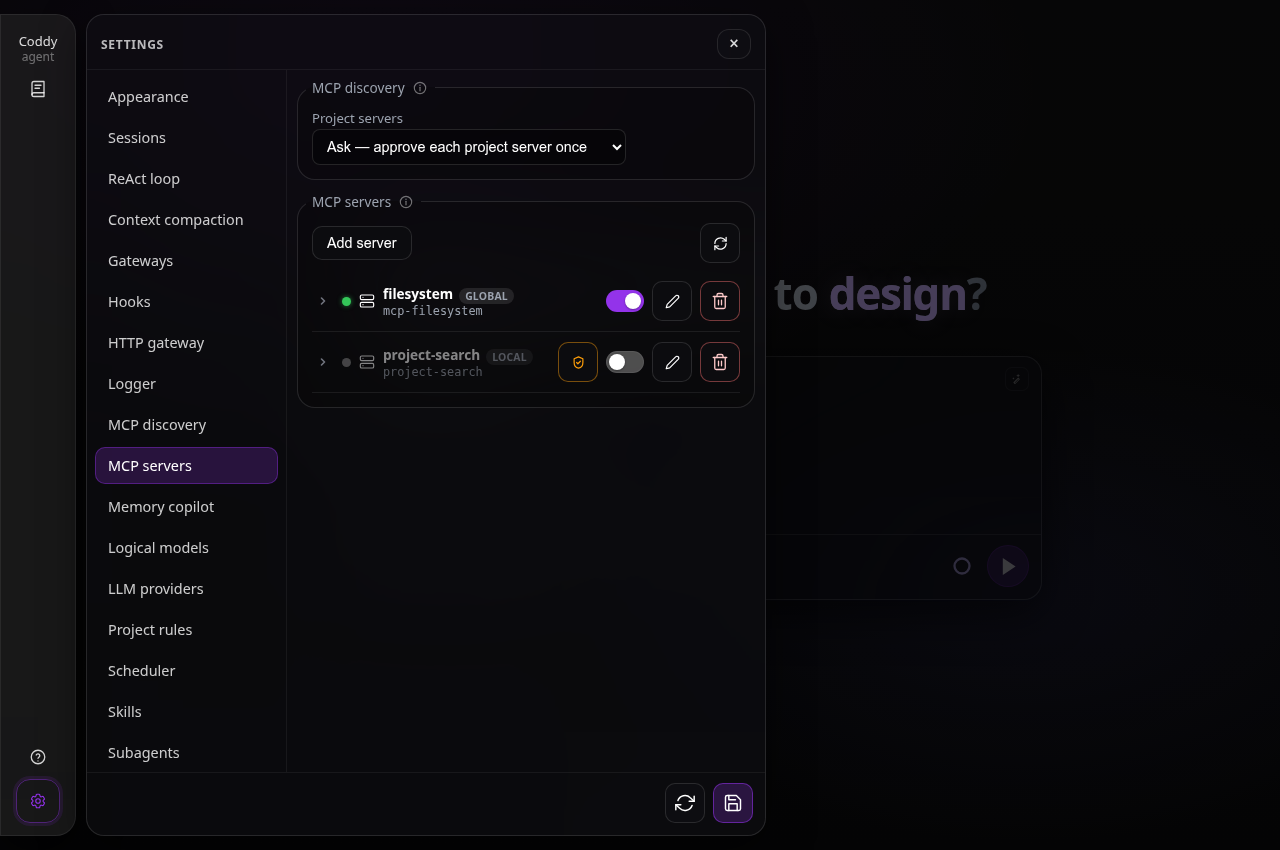
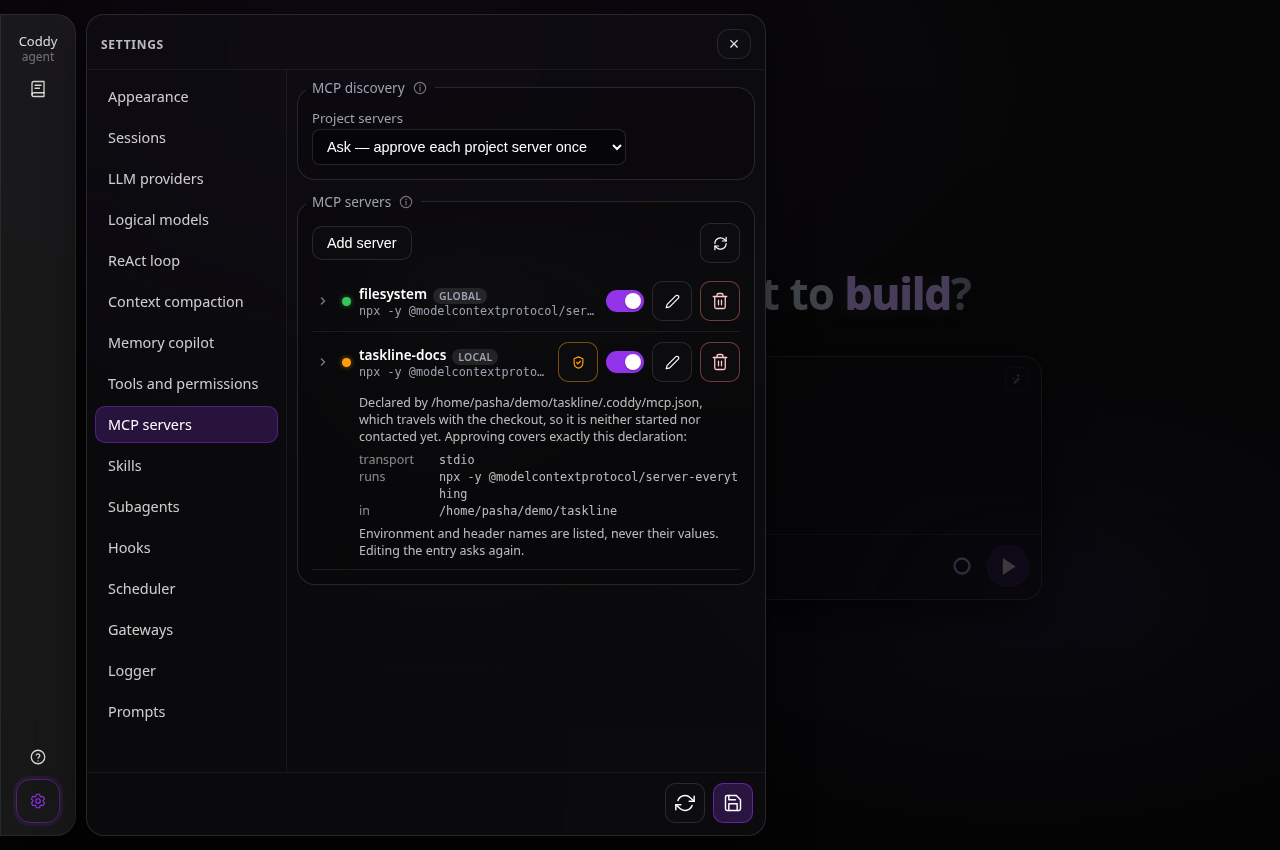
docs(mcp): one-server switches, trust by fingerprint, stored sessions
mcp.md, http-api.md, console.md, web-ui.md and slash-commands.md say what
the review changed: a switch connects or closes only its own server in
live sessions and a tool switch reconnects nothing; an approval names the
declaration shown and is refused with 409 when the checkout rewrote it;
the console offers trust only under ask and prints the whole declaration;
a broken overrides file keeps project servers off; a stored session
starts its MCP servers for its first turn; /mcp takes words after it in
the web composer and is answered in a Telegram group without a mention.
gateway.md names the two refusals the fake Bot API gained. The MCP
settings screenshots are taken again from this build: rows without the
server glyph, and MCP discovery as a block of the MCP servers tab rather
than a section of its own, as the tab has shown it for a while.

diff --git a/docs/reference/http-api.md b/docs/reference/http-api.md
@@ -200,12 +200,12 @@ header where the client can set one, since a query token reaches proxy access lo
 | DELETE | **`/coddy/skills/sources?source=<src>`** | Removes **`source`** (matched case-insensitively) from **`skills.sources`** in **config.yaml** and reloads config. Installed skills remain. **`200`** **`{"ok":true,"removed":bool}`**; **`400`** when the **`source`** query parameter is missing. A **`system`** source is refused with **`400`**: it is built into Coddy and is not in the file. |
 | DELETE | **`/coddy/skills/{name}`** | Deletes any on-disk skill by name (its directory, plus its remote provenance entry when synced). Bundled (read-only) skills, and skills outside the configured skill directories, return **`400`**. **`200`** **`{"ok":true}`**. Invalidates the slash-command cache. |
 | GET | **`/coddy/mcp`** | Merged MCP server list from three levels: **`mcp_servers`** in **config.yaml** and the user-global **`<home>/mcp.json`** (both scope **`global`**), plus the project-local **`.coddy/mcp.json`** (scope **`local`**); mcp.json files are Cursor-compatible and later levels override earlier ones by name. JSON **`{"object":"coddy.mcp_list","workspace":"...","project_trust":"ask","items":[...]}`**; each item has **`name`**, **`source`** (**`global`** / **`local`**), **`origin`** (**`config`** / **`home`** / **`project`** — the owning file), **`readonly`** (**`true`** for config.yaml entries), **`transport`**, **`command`**, **`args`**, **`url`**, **`env`**, **`headers`**, **`source_path`**, **`enabled`**, **`status`** (**`connected`** / **`error`** / **`disabled`** / **`unsupported`** / **`needs_approval`** / **`denied`**), **`error`**, **`trusted`**, **`gated`**, **`fingerprint`**, **`tools`** (**`[{name, description, enabled}]`**), **`disabled_tools`**. Enabled servers are probed for tools over their transport (**`stdio`** spawn, **`http`** streamable with legacy-SSE fallback, **`sse`**; connect, **`tools/list`**, close) with results cached until the definition changes; **`?refresh=1`** re-probes. Unknown transport types report **`unsupported`** without probing. A project-local entry that the workspace trust gate holds back is **never probed**: it reports **`needs_approval`** (or **`denied`**) with **`trusted:false`**, no tools, and the declaration an approval would cover. |
-| POST | **`/coddy/mcp/{name}/enable`** | Clears the server's disabled flag. Global entries persist in their defining file; project entries persist in **`<home>/mcp-overrides.json`**, leaving the checkout unchanged. **`200`** **`{"ok":true}`**; **`400`** for an unknown server. Live sessions refresh their MCP clients; an active turn adopts the change when it ends. |
-| POST | **`/coddy/mcp/{name}/disable`** | Sets the server's disabled flag under the same scope rule as **`enable`**. New sessions skip connecting the server; live sessions stop seeing its tools on the next turn. |
-| POST | **`/coddy/mcp/{name}/tools/{tool}/enable`** | Enables **`{tool}`** in the server's effective tool list. Global switches persist in YAML or the global mcp.json; project switches persist in **`<home>/mcp-overrides.json`**. **`200`** **`{"ok":true}`**; **`400`** for an unknown server. |
+| POST | **`/coddy/mcp/{name}/enable`** | Clears the server's disabled flag. Global entries persist in their defining file; project entries persist in **`<home>/mcp-overrides.json`**, leaving the checkout unchanged. **`200`** **`{"ok":true}`**; **`400`** for an unknown server. Live sessions connect the server where the trust gate admits it, and keep their other servers running; a session in the middle of a turn connects it when the turn ends. |
+| POST | **`/coddy/mcp/{name}/disable`** | Sets the server's disabled flag under the same scope rule as **`enable`**. New sessions skip connecting the server; live sessions close it and keep their other servers running (a turn in flight keeps it until it ends). |
+| POST | **`/coddy/mcp/{name}/tools/{tool}/enable`** | Enables **`{tool}`** in the server's effective tool list. Global switches persist in YAML or the global mcp.json; project switches persist in **`<home>/mcp-overrides.json`**. **`200`** **`{"ok":true}`**; **`400`** for an unknown server. Nothing reconnects: live sessions offer the tool again on their next turn. |
 | POST | **`/coddy/mcp/{name}/tools/{tool}/disable`** | Disables **`{tool}`** under the same scope rule. The tool is hidden from the agent's tool list and rejected at dispatch. Same responses as the tool **`enable`**. |
-| POST | **`/coddy/mcp/{name}/trust`** | Approves the **current** declaration of a project-local server for the server's workspace, so sessions may start it. The approval is bound to the workspace and to a digest of the command-bearing declaration (transport, command, args, env, url, headers) and is recorded in **`<home>/mcp-trust.json`** with a receipt (env and header **names** only). **`200`** **`{"ok":true,"fingerprint":"sha256:…"}`**; **`400`** for an unknown server, for a **config.yaml** / **`<home>/mcp.json`** entry (those need no approval), or under **`mcp.project_trust: deny`**. Rewriting the entry withdraws the approval. |
-| POST | **`/coddy/mcp/{name}/untrust`** | Withdraws the workspace approval. **`200`** **`{"ok":true,"removed":<bool>}`**. Live sessions refresh their configured MCP clients; a turn already in progress keeps its client until it ends. |
+| POST | **`/coddy/mcp/{name}/trust`** | Approves the declaration of a project-local server for the server's workspace, so sessions may start it, and connects it in live sessions. Optional body **`{"fingerprint":"sha256:…"}`** names the declaration the operator was shown, by the **`fingerprint`** of **`GET /coddy/mcp`**: when the checkout rewrote the entry since, the answer is **`409`** and nothing is recorded; without a body the current declaration is approved. The approval is bound to the workspace and to a digest of the command-bearing declaration (transport, command, args, env, url, headers) and is recorded in **`<home>/mcp-trust.json`** with a receipt (env and header **names** only). **`200`** **`{"ok":true,"fingerprint":"sha256:…"}`**; **`400`** for an unknown server, for a **config.yaml** / **`<home>/mcp.json`** entry (those need no approval), or under **`mcp.project_trust: deny`**. Rewriting the entry withdraws the approval. |
+| POST | **`/coddy/mcp/{name}/untrust`** | Withdraws the workspace approval. **`200`** **`{"ok":true,"removed":<bool>}`**. Live sessions close the server and keep their other servers running; a turn already in progress keeps it until it ends. |
 | POST | **`/coddy/mcp/project-trust`** | Sets **`mcp.project_trust`** in **config.yaml** and reloads it. Body **`{"policy":"ask"\|"allow"\|"deny"}`**. **`200`** **`{"ok":true,"project_trust":"…"}`**; **`400`** for an unknown value. The bundled UI edits this in the MCP servers tab, next to the servers it governs. |
 | GET | **`/coddy/subagents`** | Subagent definitions visible from a workspace (**`?cwd=<absolute path>`**, default: the server's default cwd; a relative path is **`400`**): the embedded built-ins (**`general`**, **`explore`**), user-scope files under **`${CODDY_HOME}/agents`**, and project-scope files under the workspace's **`.claude/agents`** and **`.coddy/agents`** (**`subagents.dirs`**, later directories win by name). **`{"object":"coddy.subagent_list","workspace","policy","items":[...]}`** where **`workspace`** is the canonical path receipts are keyed by, **`policy`** the effective **`subagents.project_trust`**, and each item carries **`name`**, **`description`**, **`scope`** (**`builtin`**, **`user`**, **`project`**), **`path`**, **`digest`** (SHA-256 of the definition bytes, the embedded bytes for built-ins), **`model`**, **`mode`**, **`builtin`**, **`hidden`**, the bounds the definition declares - **`tools`**, **`disallowed_tools`**, **`permission_mode`**, **`timeout_seconds`**, **`max_turns`**, **`background`**, and **`role_bytes`** (the size of the role body; the body itself is never served, since a client would render it before anyone approved the file) - and the trust decision for that workspace: **`trust`** (**`trusted`** or **`needs_approval`**) mirrored as the booleans **`trusted`** and **`needs_approval`**. A bound a definition does not declare is absent rather than empty: absent means "inherits". Under **`deny`** project directories are not read at all. Errors on this route and on the trust routes are **`{"error":{"message"}}`** typed **`application/json`**. The bundled UI lists this catalog, read-only, under **Settings → Subagents**. See **`docs/features/subagents.md`**. |
 | POST | **`/coddy/subagents/{name}/trust`** | Approves the **current** content of a project-scope definition for a workspace: records a receipt in **`<home>/subagents-trust.json`** bound to the canonical workspace, the name and the file digest, so **`spawn_agent`** may run it under **`project_trust: ask`**. Rewriting the file withdraws the approval. Optional body **`{"cwd": ...}`** (default: the server's default cwd); **`cwd`** must be the session's **server-side** workspace, the `cwd` field of the **`GET /coddy/sessions`** rows or **`GET /coddy/workspace/context`** with the session header, since receipts are keyed by that path. This route is the approval path for a remote console or ACP client, whose local `coddy agents trust` writes a receipt on the wrong machine. **`200`** **`{"object":"coddy.subagent","item":<catalog entry>}`** with the refreshed entry; **`404`** when no definition of that name is visible from the workspace; **`400`** for a built-in or user-scope definition (nothing to approve), a malformed body, or a relative **`cwd`**. |

diff --git a/docs/features/mcp.md b/docs/features/mcp.md
@@ -132,12 +132,22 @@ removing their definitions:
   `"disabledTools": ["tool_a"]` per entry when editing the declarations directly
 - For project entries, switches made through `/mcp` or Settings are stored in
   `<home>/mcp-overrides.json`, keyed by workspace and server. The checkout's
-  `.coddy/mcp.json` stays unchanged; these switches override its defaults.
+  `.coddy/mcp.json` stays unchanged; these switches override its defaults. Deleting a
+  project server through the API or the UI drops its switches, so a later server of the
+  same name starts from its own declaration. While the file cannot be read, every project
+  server stays off and the global servers keep their own switches.
 
 Disabled servers are not connected for new sessions. Disabled tools (and all tools of a
 disabled server) are hidden from the LLM's tool list and rejected at dispatch. The switches
 are re-read on every agent turn, so toggling them (by editing the files or through the
 HTTP API / web UI below) also applies to **already running** sessions on their next turn.
+
+A switch made through `/mcp`, Settings or the HTTP API also reaches live sessions at once,
+one server at a time: switching a server on connects it in every live session the trust
+gate admits it for, switching it off closes it there, and the other servers keep their
+processes, so a browser-automation server keeps its pages open. A tool switch reconnects
+nothing. A session with a turn in flight keeps its tools until the turn ends and takes the
+switch then.
 
 ## Management API and UI
 
@@ -150,15 +160,28 @@ Cursor-style JSON editor for mcp.json entries with a scope picker (global writes
 into their defining file; project switches persist in the operator's home.
 `config.yaml` entries are toggle-only here and edited in Settings.
 
-Type `/mcp` in the web composer to open this Settings section. In the console,
-`/mcp` opens a list of global and project servers with connection status and
-tool counts. Enter opens a server's controls: toggle the server, expand its
-tools and toggle one, or grant/revoke trust for a project declaration. The
-console shows the command or URL again before recording trust. These controls
-also work in `--remote` mode through the server's MCP management routes.
-Telegram `/mcp` lists servers and offers enable/disable buttons only for
-already-trusted entries. Approve project declarations in the console, CLI or
-web UI; a chat cannot grant workspace trust.
+Type `/mcp` in the web composer to open this Settings section; words after the
+command are ignored, as in the console. In the console, `/mcp` opens a list of
+global and project servers with connection status and tool counts, and `off`
+beside a switched-off server whose status is a trust verdict. Enter opens a
+server's controls: toggle the server, expand its tools and toggle one, or
+grant or revoke trust for a project declaration. The trust control follows the
+rule of the web shield and is offered only under `mcp.project_trust: ask`, since
+under `allow` and `deny` there is no per-server decision to take. Before it
+records trust the console prints the whole declaration above the choice: the
+transport, the command line or the URL, the names of its variables and headers,
+the workspace and the file. These controls also work in `--remote` mode through
+the server's MCP management routes. Telegram `/mcp` lists servers and offers
+enable/disable buttons only for already-trusted entries; in a group it is
+answered without a mention, and a failed tap is reported in the menu message.
+Approve project declarations in the console, CLI or web UI; a chat cannot grant
+workspace trust.
+
+An approval from the console, the web shield or the remote console names the
+declaration it was shown by the `fingerprint` the list reported. When the
+checkout rewrote the entry between the listing and the approval, the approval is
+refused (`409` over HTTP) and nothing is recorded: list the servers again and
+review the new declaration.
 
 ![The MCP settings section opened from the web composer's /mcp command](../assets/mcp/mcp-settings-dark-1280.png)
 
@@ -325,7 +348,12 @@ mcp_servers:
 
 1. On `session/new`, the agent connects every enabled server from the merged
    config.yaml + `~/.coddy/mcp.json` + `./.coddy/mcp.json` list that the workspace
-   trust gate admits, then any ACP client-supplied servers
+   trust gate admits, then any ACP client-supplied servers. A session restored from
+   disk - reopened by an editor with `session/load`, or read by the web UI, a chat
+   or the console - connects its configured servers before its first turn instead,
+   through the same gate: reading a stored conversation starts no process, where it
+   used to start a set per session that stayed for the life of the server. Its ACP
+   client-supplied servers still connect on load
 2. The agent calls `tools/list` on each server and registers the tools
 3. The staged config tools can add, replace, or delete a global `mcp_servers`
    entry while the session is running: `config_set` stages the uci-like command

diff --git a/docs/surfaces/web-ui.md b/docs/surfaces/web-ui.md
@@ -616,7 +616,7 @@ Wire and draft
 Picker and segmentation
 
 - The **Commands** group lists the built-ins from **`GET /coddy/commands`** with their argument hint (**`.slash-row-hint`**). Picking **`/model`**, **`/reasoning`** or **`/permissions`** opens that composer selector instead of inserting text, and picking **`/agent`**, **`/plan`** or **`/ask`** switches the mode; a settings command typed out with its value is sent as prompt text and applied by the server.
-- Typing **`/mcp`** in the composer opens **Settings → MCP servers** without sending a turn. The command appears beside `/docs` in the local Commands group; it works from the home composer and from a session.
+- Typing **`/mcp`** in the composer opens **Settings → MCP servers** without sending a turn; words after the command are ignored, as in the console, while a word that only starts with it (`/mcpx`) is an ordinary prompt. The command appears beside `/docs` in the local Commands group; it works from the home composer and from a session.
 - Menu visibility and **`prefix`** derive from **`slashMenuDraftAtCaret`** in **`external/ui/src/ui/skills/draftSlash.ts`** (line-start or whitespace before **`/`**, optional suffix, not inside fences or blockquotes).
 - Mirror highlighting uses **`segmentComposerSlashSpans`** in **`external/ui/src/ui/skills/segmentComposerSlashSpans.ts`** (mid-line **`/`** supported; **`x/foo`** is not a command token).
 
@@ -1119,6 +1119,10 @@ a project-local one awaiting workspace approval):
   error), disabled (gray), unknown transport type (amber, `unsupported`),
   awaiting workspace approval (amber, `needs_approval`), refused by
   `mcp.project_trust: deny` (red, `denied`).
+- A row leads with its chevron and the status dot, with no glyph of its own, and
+  the expanded tools and the trust note start where the name does. On a phone
+  the controls wrap under the name and its command line, so a name is read whole
+  instead of a few letters beside four 40px buttons.
 - The tab holds **two fieldsets**: **MCP discovery** (`.mcp-discovery-box`) above
   **MCP servers** (`.mcp-servers-box`). Discovery carries the `mcp.project_trust`
   policy (`mcp-project-trust` select, `POST /coddy/mcp/project-trust`) and the
@@ -1126,7 +1130,9 @@ a project-local one awaiting workspace approval):
   its own, because it governs exactly the servers listed under it, and like the
   rest of the tab it persists on change instead of joining Save all.
 - Workspace trust for project-local rows (`gated: true`): a shield button
-  (`mcp-trust-{name}`) posts `POST /coddy/mcp/{name}/trust|untrust`, and a
+  (`mcp-trust-{name}`) posts `POST /coddy/mcp/{name}/trust|untrust`, an approval
+  carrying the row's `fingerprint` so a declaration the checkout rewrote since the
+  listing is refused (`409`, shown as the tab's error) instead of approved, and a
   `needs_approval` row carries a note (`mcp-trust-note-{name}`) with the
   `source_path` it was declared in plus the declaration the approval covers
   (`.mcp-trust-facts`, from `declarationFacts` in `mcpServerJson.ts`):
@@ -1137,8 +1143,10 @@ a project-local one awaiting workspace approval):
   no per-server decision left to offer. Such a row is not probed, so it lists no
   tools; the command line stays visible because it is what the operator
   approves. The shield is absent for `global` rows and disabled under `denied`.
-- Server switch toggles `POST /coddy/mcp/{name}/enable|disable`; the change
-  persists into the file that defines the server.
+- Server switch toggles `POST /coddy/mcp/{name}/enable|disable`; a global entry's
+  switch persists into the file that defines it, a project entry's into
+  `<home>/mcp-overrides.json`, leaving the checkout alone. Live sessions connect or
+  close that one server and keep the others running.
 - Expanding a row lists tools with per-tool switches
   (`POST /coddy/mcp/{name}/tools/{tool}/enable|disable`); tool switches are
   locked while the server is disabled.

diff --git a/docs/reference/slash-commands.md b/docs/reference/slash-commands.md
@@ -18,7 +18,7 @@ The built-in commands on each surface and how skills become commands. A slash co
 | `/queue [list\|drop <n>\|mode <n> <steer\|after_turn>\|clear]` | console | Lists waiting messages, changes one mode, takes one back into the input, or clears the queue. Works against a remote server too. | [Message queue](../features/message-queue.md#in-the-console) |
 | `/usage` | console | Forces a fresh read of the active provider's account usage and prints the breakdown; under `--remote` the server's own key is read. | [Console](../surfaces/console.md#commands-and-keys) |
 | `/tasks` | console | Opens the background tasks of the session in the place of the editor: what runs, what finished, a task's output on **enter**, **s** to stop one. Under `--remote` it lists and stops the processes of the server. | [Background tasks](../features/background-tasks.md#in-the-console) |
-| `/mcp` | console, web UI, Telegram | Console: opens a server list with connection status, tool count, server and tool switches, and project trust controls. Web UI: opens Settings → MCP servers. Telegram: lists servers and offers enable/disable buttons for trusted entries only. | [MCP](../features/mcp.md#management-api-and-ui) |
+| `/mcp` | console, web UI, Telegram | Console: opens a server list with connection status, tool count, server and tool switches, and project trust controls under `mcp.project_trust: ask`. Web UI: opens Settings → MCP servers, whatever follows the command. Telegram: lists servers and offers enable/disable buttons for trusted entries only, in a group without a mention. | [MCP](../features/mcp.md#management-api-and-ui) |
 | `/docs [words or page]` | console, web UI | Opens Coddy's built-in documentation, the same screen F1 opens: the contents, a search for the words, or a page (`/docs features/mentions#completion`) opened at its section. A page is named by its address or its exact title; any other words are a search. In the web UI the composer runs it in the browser and nothing reaches the agent. `/help` is the same command in the console. | [Built-in documentation](../features/built-in-docs.md#the-console-help) |
 | `/quit`, `/exit` | console | Exits. | [Console](../surfaces/console.md#commands-and-keys) |
 | `/compact [--model <id>] [instructions]` | console, web UI, ACP editors, `POST /v1/responses` | Summarises the older history and keeps the recent turns verbatim; the words after the command steer the summariser, and `--model` names the model that writes this one summary (a `models[].model`, its name without the provider, or a part of one that matches exactly one). Listed only while `compaction.enable` is true; a manual compaction is always forced. | [Context compaction](../features/compaction.md#the-compact-command) |

diff --git a/docs/surfaces/console.md b/docs/surfaces/console.md
@@ -247,12 +247,18 @@ unavailable` rather than inventing numbers. Under `--remote` the
 server's own key is read, so a `key rejected` line there is informational
 (sign in on the server).
 
-`/mcp` opens a server list with scope, status and tool count. Enter opens a
-server's controls for enable/disable, project trust and individual tools.
-For a project declaration the console displays its command or URL before
-approval; disabling it stores a switch under the operator's home instead of
-editing the checkout. The same menu works over `--remote` through the MCP
-management routes.
+`/mcp` opens a server list with scope, status and tool count, and `off` beside
+a switched-off server whose status is a trust verdict. Enter opens a server's
+controls for enable/disable, project trust and individual tools. Grant and
+revoke are offered for a project server under `mcp.project_trust: ask` only,
+like the shield of the web UI. Before an approval the console prints the whole
+declaration above the choice - transport, command line or URL, the names of its
+variables and headers, the workspace and the file - and the approval names that
+declaration by its fingerprint, so a checkout rewritten in between is refused
+rather than approved. Disabling a project server stores a switch under the
+operator's home instead of editing the checkout, and a switch reaches the live
+session at once: that server connects or closes, the others keep running. The
+same menu works over `--remote` through the MCP management routes.
 
 ![The console /mcp server list with a disabled global server and an untrusted project server](../assets/mcp/mcp-console-dark-1280.png)
 

diff --git a/docs/surfaces/gateway.md b/docs/surfaces/gateway.md
@@ -448,10 +448,13 @@ The same page is an HTTP API, which is what a script or a coding agent drives:
 The fake is strict where Telegram is. An edit that changes nothing, an edit
 of a message that was never sent, a text over 4096 characters, a reply to a
 message the chat does not hold (unless `allow_sending_without_reply` says to
-send it anyway), an answer to a callback query the fake never issued, and a
-keyboard whose `callback_data` is longer than 64 bytes (`BUTTON_DATA_INVALID`)
-are refused with Telegram's own error, so a keyboard that works on the stand
-works in a chat.
+send it anyway), an answer to a callback query the fake never issued, a second
+answer to one it did (a query takes one answer, so a failure told in an alert
+after the tap was acknowledged never reaches the user), a `reply_markup` whose
+`inline_keyboard` is not an array (`null` included, what an empty keyboard of
+the Go library encodes to), and a keyboard whose `callback_data` is longer than
+64 bytes (`BUTTON_DATA_INVALID`) are refused with Telegram's own error, so a
+keyboard that works on the stand works in a chat.
 
 It also remembers `allowed_updates` the way Telegram does. A bot token that
 once ran under another framework may be subscribed to messages alone, and a

diff --git a/docs/assets/INDEX.md b/docs/assets/INDEX.md
@@ -73,7 +73,7 @@ Generated by `make docs`. "Used by" lists the files that reference the asset.
 | `screenshot-fullhd-scheduler.png` | 320 KB | docs/operate/scheduler.md |
 | `screenshot-fullhd-settings-appearance.png` | 211 KB | docs/surfaces/web-ui.md |
 | `screenshot-fullhd-settings-hooks.png` | 287 KB | docs/surfaces/web-ui.md |
-| `screenshot-fullhd-settings-mcp.png` | 313 KB | docs/operate/security.md, docs/surfaces/web-ui.md |
+| `screenshot-fullhd-settings-mcp.png` | 290 KB | docs/operate/security.md, docs/surfaces/web-ui.md |
 | `screenshot-fullhd-settings-skills.png` | 306 KB | docs/features/skills.md |
 | `screenshot-fullhd-settings.png` | 252 KB | docs/surfaces/web-ui.md |
 | `screenshot-fullhd-start.png` | 346 KB | README.md |
@@ -165,7 +165,7 @@ Generated by `make docs`. "Used by" lists the files that reference the asset.
 | File | Size | Used by |
 |------|------|---------|
 | `mcp-console-dark-1280.png` | 54 KB | docs/surfaces/console.md |
-| `mcp-settings-dark-1280.png` | 184 KB | docs/features/mcp.md |
+| `mcp-settings-dark-1280.png` | 210 KB | docs/features/mcp.md |
 
 ### docs/assets/memory
 
